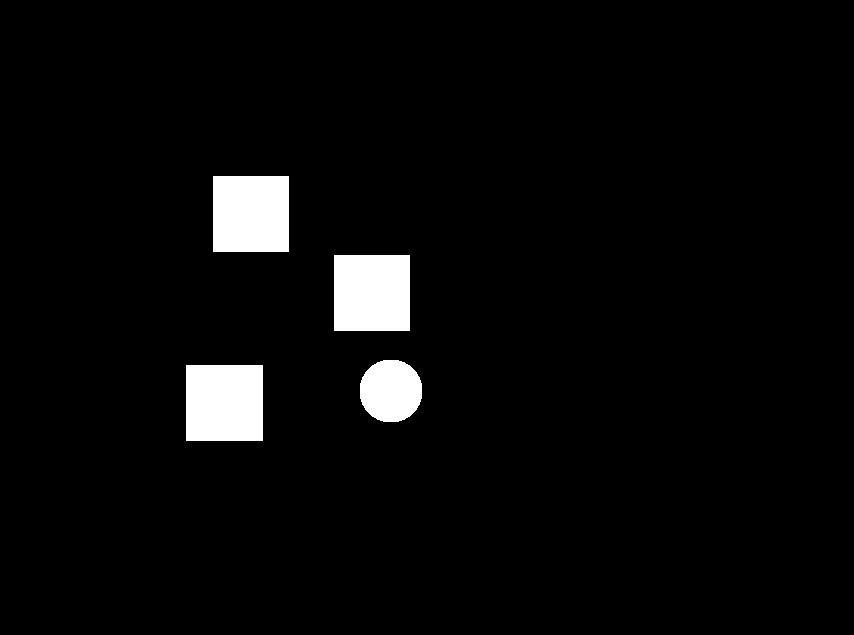
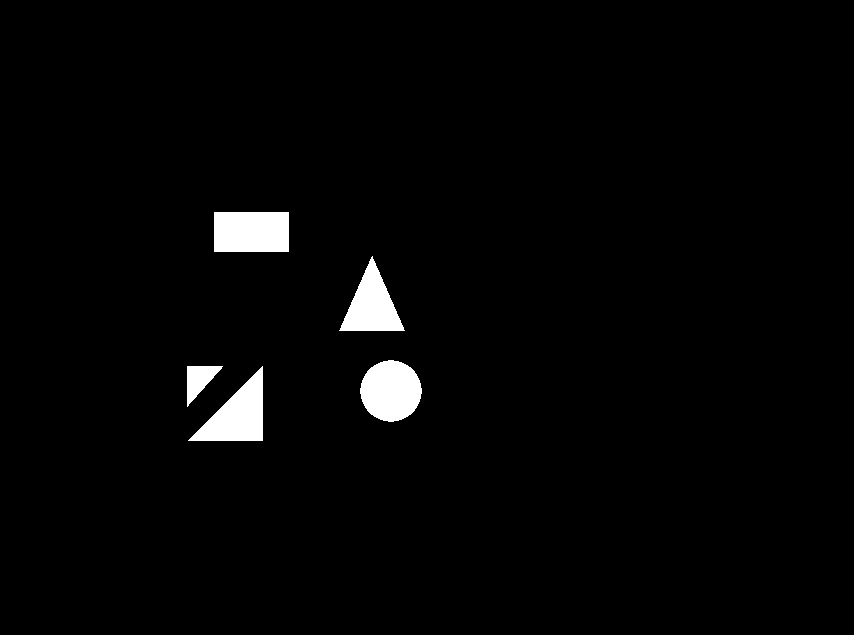
coisas coisadas

Changed region(s): [[0.3653, 0.389, 0.4871, 0.5386], [0.2436, 0.2693, 0.3653, 0.3591], [0.2131, 0.5685, 0.3044, 0.6882]]

diff --git a/contour/findinternal.py b/contour/findinternal.py
@@ -1,0 +1,99 @@
+import cv2
+import numpy as np
+
+img = cv2.imread("../imgs/teste.png")
+
+# convert to HSV, since red and yellow are the lowest hue colors and come before green
+hsv = cv2.cvtColor(img, cv2.COLOR_BGR2HSV)
+
+# create a binary thresholded image on hue between red and yellow
+lower = (0,240,160)
+upper = (30,255,255)
+thresh = cv2.inRange(hsv, lower, upper)
+
+#ball
+lowerBall = (0,0,0)
+upperBall = (5,255,245)
+threshBall = cv2.inRange(hsv, lowerBall, upperBall)
+
+# apply morphology
+kernel = cv2.getStructuringElement(cv2.MORPH_ELLIPSE, (9,9))
+clean = cv2.morphologyEx(thresh, cv2.MORPH_OPEN, kernel)
+kernel = cv2.getStructuringElement(cv2.MORPH_ELLIPSE, (15,15))
+clean = cv2.morphologyEx(thresh, cv2.MORPH_CLOSE, kernel)
+
+kernelBall = cv2.getStructuringElement(cv2.MORPH_ELLIPSE, (9,9))
+cleanBall = cv2.morphologyEx(threshBall, cv2.MORPH_OPEN, kernel)
+kernelBall = cv2.getStructuringElement(cv2.MORPH_ELLIPSE, (15,15))
+cleanBall = cv2.morphologyEx(threshBall, cv2.MORPH_CLOSE, kernel)
+
+# get external contours
+contours = cv2.findContours(clean, cv2.RETR_EXTERNAL, cv2.CHAIN_APPROX_SIMPLE)
+contours = contours[0] if len(contours) == 2 else contours[1]
+
+contoursBall = cv2.findContours(cleanBall, cv2.RETR_EXTERNAL, cv2.CHAIN_APPROX_SIMPLE)
+contoursBall = contoursBall[0] if len(contoursBall) == 2 else contoursBall[1]
+
+result1 = img.copy()
+result2 = img.copy()
+
+result1Ball = img.copy()
+result2Ball = img.copy()
+
+for c in contours:
+    cv2.drawContours(result1,[c],0,(0, 255, 0),2)
+    # get rotated rectangle from contour
+    rot_rect = cv2.minAreaRect(c)
+    #print(rot_rect)
+    box = cv2.boxPoints(rot_rect)
+    box = np.intp(box)
+    # draw rotated rectangle on copy of img
+    cv2.drawContours(result2,[box],0,(0, 255, 0),2)
+    
+for c in contoursBall:
+    cv2.drawContours(result1Ball,[c],0,(0, 255, 0),2)
+    # get rotated rectangle from contour
+    rot_rectBall = cv2.minAreaRect(c)
+    boxball = cv2.boxPoints(rot_rectBall)
+    boxball = np.intp(boxball)
+    # draw rotated rectangle on copy of img
+    cv2.drawContours(result2Ball,[boxball],0,(0, 255, 0),2)
+
+# save result
+cv2.imwrite("./resultsend/4cubes_thresh.jpg",thresh)
+cv2.imwrite("./resultsend/4cubes_clean.jpg",clean)
+cv2.imwrite("./resultsend/4cubes_result1.png",result1)
+cv2.imwrite("./resultsend/4cubes_result2.png",result2)
+
+# display result
+
+#cv2.imshow("thresh", thresh)
+#cv2.imshow("clean", clean)
+#cv2.imshow("result1", result1)
+cv2.imshow("result2", result2)
+
+#cv2.imshow("result1Ball1", result1Ball)
+cv2.imshow("result1Ball2", result2Ball)
+
+fgMaskNoBall = cv2.bitwise_and(thresh, cv2.bitwise_not(threshBall))
+cv2.imshow("fgMaskNoBall", fgMaskNoBall)
+
+areas = []
+
+for i in range(len(contours)):
+    print(contours[i])
+    areas.append(cv2.contourArea((np.array(contours[i]))))
+
+print(areas)
+
+for c in contours:
+    cv2.drawContours(fgMaskNoBall,[c],0,(0, 255, 0),2)
+    rot_rectinternalcontours = cv2.minAreaRect(c)
+    boxball = cv2.boxPoints(rot_rectBall)
+    boxball = np.intp(boxball)
+    
+    # draw rotated rectangle on copy of img
+    cv2.drawContours(result2Ball,[boxball],0,(0, 255, 0),2)
+
+cv2.waitKey(0)
+cv2.destroyAllWindows()

diff --git a/guides/introduction/open.py b/guides/introduction/open.py
@@ -1,0 +1,73 @@
+import cv2
+import numpy as np
+#from google.colab.patches import cv2_imshow
+
+img = cv2.imread("../imgs/pogcat.png")
+cv2.imshow("gato", img)
+
+pixel = img[100,100]
+altura = img.shape[0]
+largura = img.shape[1]
+tamanho = img.size
+
+print('pixel', pixel)
+print('altura', altura)
+print('largura', largura)
+print('tamanho kb', tamanho)
+
+nova_largura = 350
+nova_altura = 450
+novas_dimensoes = (nova_largura, nova_altura)
+
+#resize 
+
+img_formatada = cv2.resize(img, novas_dimensoes, interpolation=cv2.INTER_AREA)
+
+pixel = img[100,100]
+altura = img.shape[0]
+largura = img.shape[1]
+tamanho = img.size
+
+print('pixel', pixel)
+print('altura', altura)
+print('largura', largura)
+print('tamanho em kb', tamanho)
+
+pixel_img_formatada = img_formatada[100,100]
+altura_img_formatada = img_formatada.shape[0]
+largura_img_formatada = img_formatada.shape[1]
+tamanho_img_formatada = img_formatada.size
+
+print('Novas propriedades : ')
+print('pixel', pixel)
+print('altura', altura_img_formatada)
+print('largura', largura_img_formatada)
+print('tamanho em kb', tamanho_img_formatada)
+
+cv2.imshow("oi", img_formatada) # --> rodando no colab
+
+#rotacao 
+
+(altura, largura) = img_formatada.shape[:2]
+centro = (altura / 2, largura / 2)
+
+escala = 1.0 #Mantém igual
+#90º (coordenada central, ângulo de rotação, escala)
+M = cv2.getRotationMatrix2D(centro, 90, escala)
+
+rotaçao_90 = cv2.warpAffine(img_formatada, M, (altura, largura))
+
+cv2.imshow("90", rotaçao_90)
+
+M = cv2.getRotationMatrix2D(centro, 180, escala)
+rotaçao_180 = cv2.warpAffine(img_formatada, M, (altura, largura))
+
+cv2.imshow("180", rotaçao_180)
+
+M = cv2.getRotationMatrix2D(centro, 270, escala)
+rotaçao_270 = cv2.warpAffine(img_formatada, M, (altura, largura))
+
+cv2.imshow("270", rotaçao_270)
+
+cv2.waitKey(0)
+cv2.destroyAllWindows()

diff --git a/edges/trehshold/slidersgray.py b/edges/trehshold/slidersgray.py
@@ -5,8 +5,8 @@ def threshold_image(img, thresh, maxThresh):
   thresholded_img = cv2.threshold(img, thresh, maxThresh, cv2.THRESH_BINARY)[1]
   return thresholded_img
 
-#img = cv2.imread('../imgs/defaulthomogra.png', cv2.IMREAD_GRAYSCALE)
-img = cv2.imread('../imgs/teste.png', cv2.IMREAD_GRAYSCALE)
+img = cv2.imread('../imgs/defaulthomogra.png', cv2.IMREAD_GRAYSCALE)
+#img = cv2.imread('../imgs/teste.png', cv2.IMREAD_GRAYSCALE)
 
 # Create a window to display the image.
 cv2.namedWindow('image')

diff --git a/warp/main.py b/warp/main.py
@@ -73,7 +73,8 @@ def drawRectangle(action, x, y, flags, *userdata):
         
     print(counter)
  
-image = cv2.imread("../imgs/card.jpeg")
+image = cv2.imread("../imgs/sample_unball.png")
+image = cv2.resize(image, (800, 400))
 temp = image.copy()
 cv2.namedWindow("Window")
 cv2.setMouseCallback("Window", drawRectangle)
